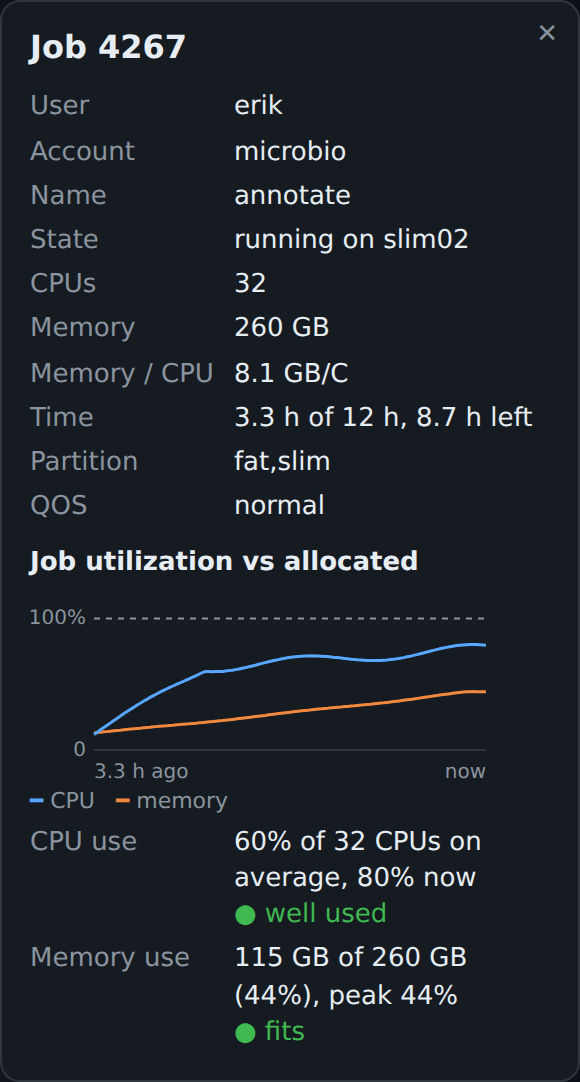
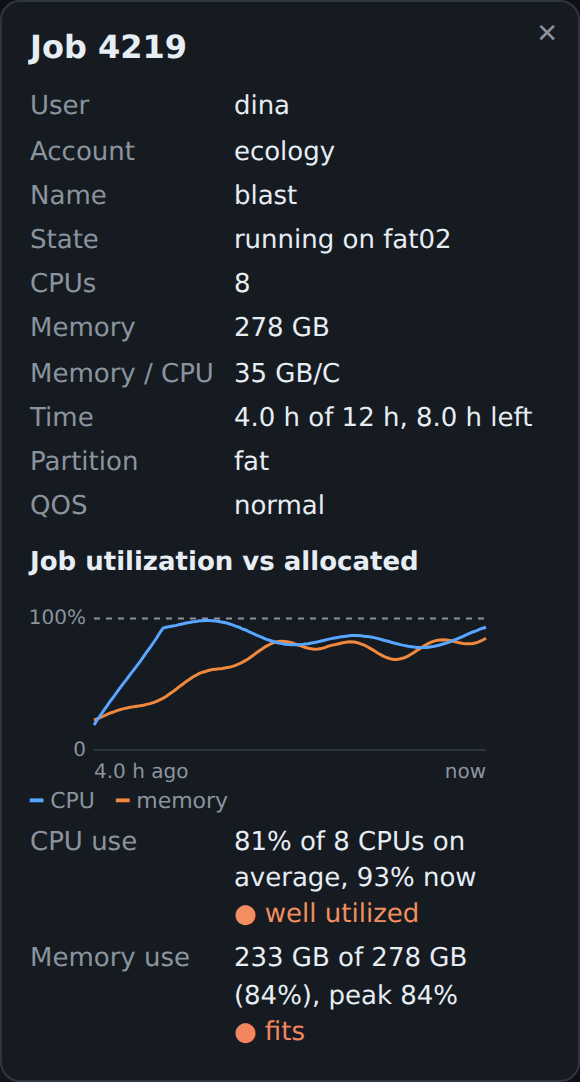
chore: colour utilization verdicts on the node utilization scale, memory fits from 70%

diff --git a/sjp/usage.js b/sjp/usage.js
@@ -6,7 +6,10 @@
 const sjpUse = (() => {
   const pct = x => x == null ? "–" : Math.round(100 * x) + "%";
   const gb = mb => (mb >= 10240 ? (mb / 1024).toFixed(0) : (mb / 1024).toFixed(1)) + " GB";
-  const GOOD = "#3fb950", SO = "#d29922", BAD = "#f85149";
+  // The node utilization scale: blue when little is used, yellow at half, red
+  // at all of it (the readable shade, for text on the dark panel).
+  const hue = f => f < 0.5 ? 215 - 165 * f / 0.5 : 50 - 50 * (f - 0.5) / 0.5;
+  const colour = f => `hsl(${hue(Math.min(1, Math.max(0, f)))}, 85%, 66%)`;
 
   // A running job's shares of its allocation: CPUs kept busy on average and
   // now, memory in use and at its peak. null until it has been sampled.
@@ -20,13 +23,13 @@ const sjpUse = (() => {
   }
 
   // Rough verdicts, for users to see whether a job runs as intended; not for
-  // accounting. [text, colour] for CPU and for memory.
+  // accounting. [text, colour] for CPU (its average) and memory (its peak),
+  // coloured by the share used.
   function verdict(s) {
     const cpu = s.cpu == null ? ["measuring…", null]
-      : s.cpu < 0.25 ? ["mostly idle", BAD]
-      : s.cpu < 0.6 ? ["partly used", SO] : ["well used", GOOD];
-    const mem = s.peak > 0.95 ? ["near its limit", BAD]
-      : s.peak < 0.25 ? ["far less than allocated", SO] : ["fits", GOOD];
+      : [s.cpu < 0.25 ? "mostly idle" : s.cpu < 0.6 ? "partly utilized" : "well utilized", colour(s.cpu)];
+    const mem = [s.peak > 0.95 ? "near its limit" : s.peak >= 0.7 ? "fits"
+      : s.peak >= 0.25 ? "less than allocated" : "far less than allocated", colour(s.peak)];
     return { cpu, mem };
   }
   const tag = ([text, colour]) => colour

diff --git a/sjp/viz.py b/sjp/viz.py
@@ -269,7 +269,8 @@ def demo_use(j: dict, now: float, points: int = 0):
         wig = 0.6 * math.sin(t / 2900 + seed) + 0.4 * math.sin(t / 830 + 3 * seed)
         warm = min(1.0, 0.15 + x / 0.1)        # the first tenth: reading its input
         busy = (1.0 if cpu_share is None else j["cpus"] * cpu_share) * warm * (1 + 0.15 * wig)
-        mem = j["mem"] * mem_share * min(1.0, 0.3 + 2.5 * x) * (1 + 0.04 * wig)
+        swing = 0.12 * math.sin(t / 1700 + 2 * seed) + 0.06 * math.sin(t / 470 + seed)
+        mem = j["mem"] * mem_share * min(1.0, 0.3 + 2.5 * x) * (1 + swing)
         return min(busy, j["cpus"]), int(min(mem, j["mem"]))
     if points:
         step = max(60.0, (now - start) / points)
